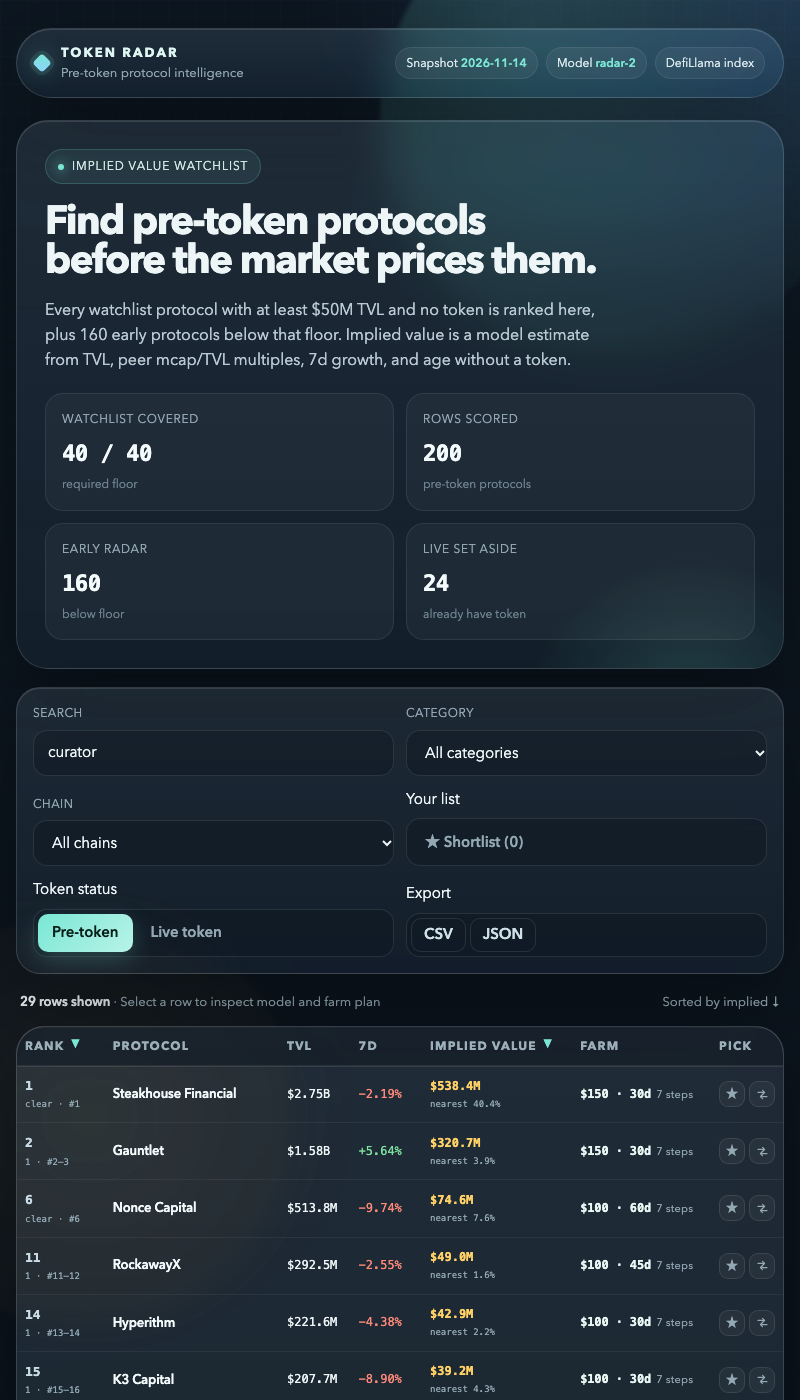
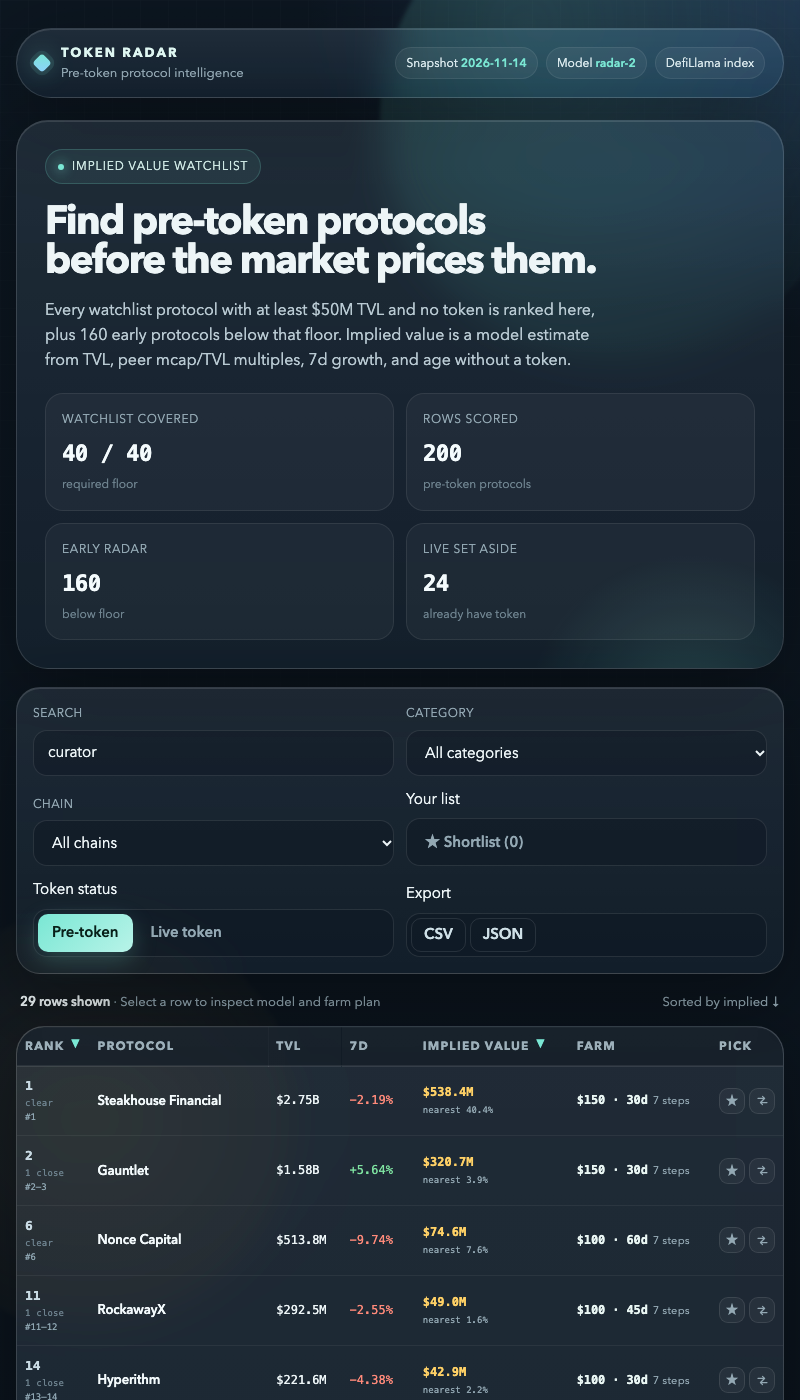
Split the rank cell back into three lines.
Rank, tie count and band are separate lines again ("2" / "1 close" / "#2–3") as the spec asks, with the full sentence on both line tooltips and unchanged in the modal; the cell still fits the 73px column with no table overflow at 800px.

diff --git a/dashboard/app.js b/dashboard/app.js
@@ -655,6 +655,9 @@
       var near = impliedBand(r).length;
       var ranks = bandRanks(r);
       var closest = nearestNeighbor(r);
+      var rankTitle = (near === 0
+        ? 'No other row sits within \u00b15% of this implied value'
+        : near === 1 ? '1 other row sits within \u00b15% of this implied value' : near + ' other rows sit within \u00b15% of this implied value') + '. Rank range if this implied value moved \u00b15%: ' + (ranks.best === ranks.worst ? '#' + ranks.best : '#' + ranks.best + '\u2013' + ranks.worst) + '.';
       var tr = el('tr', {
         'data-selected': state.selected === r.slug ? 'true' : 'false',
         tabindex: '0',
@@ -664,12 +667,11 @@
         el('td', { class: 'num rank-cell' },
           el('div', { class: 'rank-wrap' },
             el('b', { text: String(r.rank) }),
+            el('span', { class: 'rank-near', title: rankTitle, text: near === 0 ? 'clear' : near + ' close' }),
             el('span', {
               class: 'rank-band',
-              title: (near === 0
-                ? 'No other row sits within \u00b15% of this implied value'
-                : near === 1 ? '1 other row sits within \u00b15% of this implied value' : near + ' other rows sit within \u00b15% of this implied value') + '. Rank range if this implied value moved \u00b15%: ' + (ranks.best === ranks.worst ? '#' + ranks.best : '#' + ranks.best + '\u2013' + ranks.worst) + '.',
-              text: (near === 0 ? 'clear' : String(near)) + ' · ' + (ranks.best === ranks.worst ? '#' + ranks.best : '#' + ranks.best + '\u2013' + ranks.worst)
+              title: rankTitle,
+              text: ranks.best === ranks.worst ? '#' + ranks.best : '#' + ranks.best + '\u2013' + ranks.worst
             })
           )
         ),

diff --git a/dashboard/app.css b/dashboard/app.css
@@ -210,7 +210,8 @@ tbody tr:last-child td { border-bottom: 0; }
 .rank-cell { color: #c9dbe4; font-size: 13px; }
 .rank-wrap { display: grid; gap: 2px; }
 .rank-wrap b { font-weight: 550; }
-.rank-band { font-family: var(--font-num); font-size: 10px; letter-spacing: 0.01em; color: #93aab6; white-space: nowrap; }
+.rank-near { font-size: 10px; letter-spacing: 0.02em; line-height: 1.2; color: var(--dim); white-space: nowrap; }
+.rank-band { font-family: var(--font-num); font-size: 9.5px; color: #8fa6b2; white-space: nowrap; }
 .name-cell { display: grid; gap: 4px; min-width: 180px; }
 .name-cell b { font-size: 15px; font-weight: 600; letter-spacing: -0.01em; color: #f3fafc; }
 .name-cell span { font-size: 12px; color: var(--muted); line-height: 1.4; }
@@ -473,6 +474,7 @@ tbody tr.row-in { animation: rowIn 340ms cubic-bezier(0.2, 0.7, 0.3, 1) both; }
   .farm-cell b { font-size: 12px; }
   .farm-cell span { font-size: 11px; }
   .rank-cell { width: 56px; }
+  .rank-near { font-size: 9px; }
   .rank-band { font-size: 9px; }
 }
 @media (max-width: 1080px) {

diff --git a/dashboard/index.html b/dashboard/index.html
@@ -5,7 +5,7 @@
 <meta name="viewport" content="width=device-width, initial-scale=1">
 <meta name="color-scheme" content="dark">
 <title>Token Radar: pre-token protocols ranked by implied value</title>
-<link rel="stylesheet" href="app.css?v=12">
+<link rel="stylesheet" href="app.css?v=13">
 </head>
 <body>
 <a class="skip" href="#board">Skip to the board</a>
@@ -16,6 +16,6 @@
 </div>
 <main id="board" tabindex="-1" aria-busy="true"></main>
 <script src="../data.js?v=4"></script>
-<script src="app.js?v=17"></script>
+<script src="app.js?v=18"></script>
 </body>
 </html>
